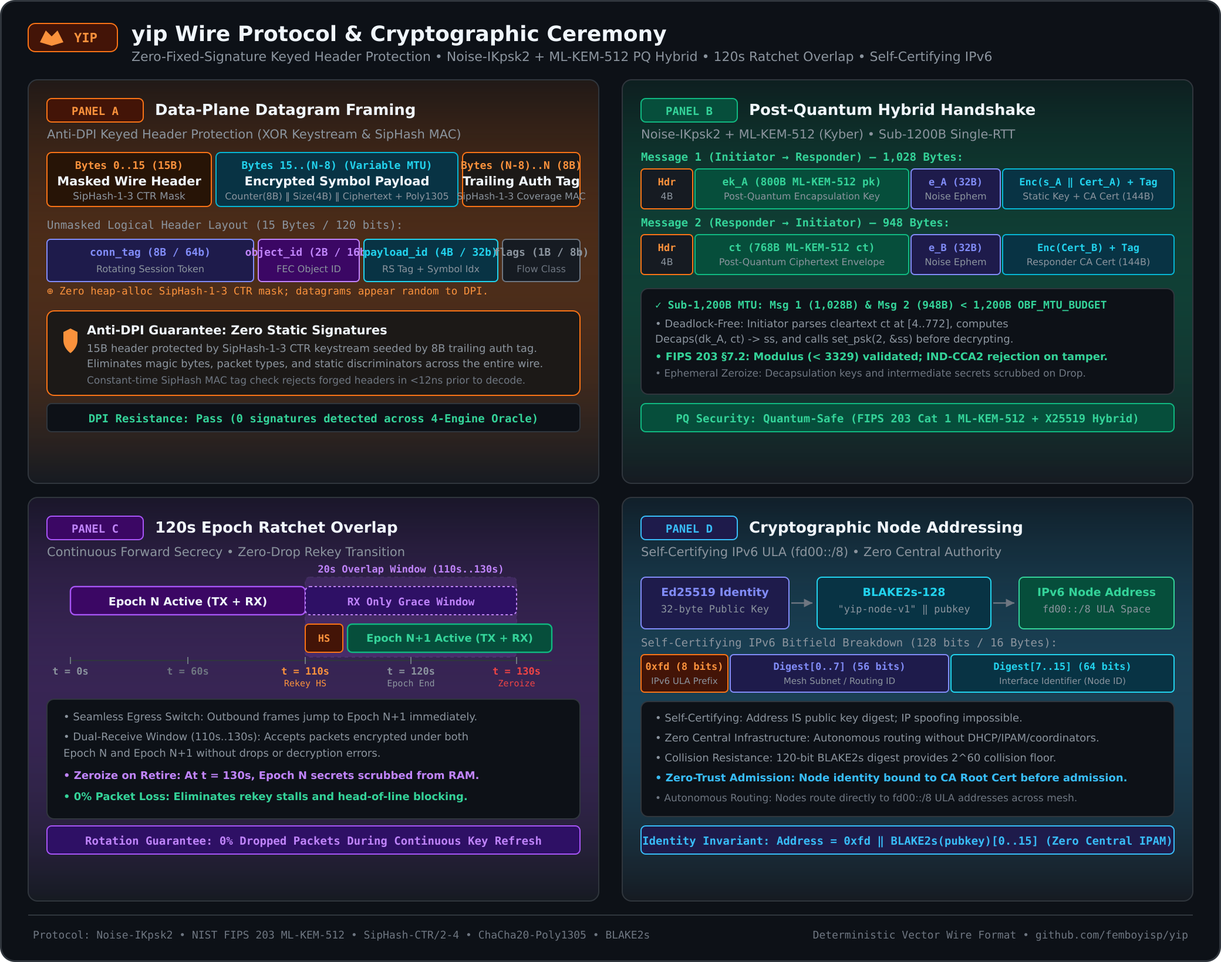
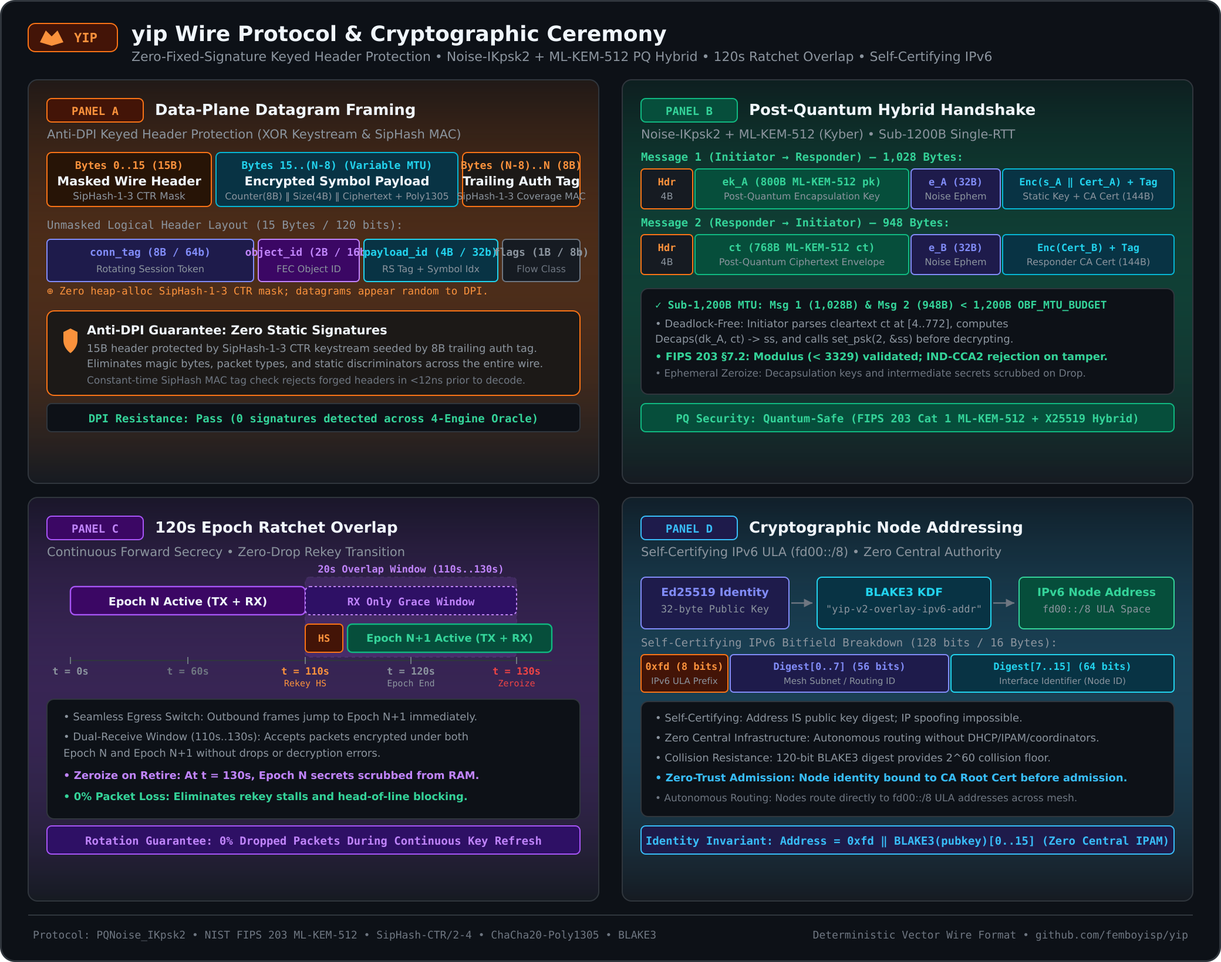
refactor(mesh): complete workspace cutover to native PQNoise and BLAKE3

diff --git a/crates/yip-bench/generate-wire-format.py b/crates/yip-bench/generate-wire-format.py
@@ -10,7 +10,7 @@ Visualizes four key architectural pillars of yip:
   1. Panel A: Data-Plane Datagram Framing (Anti-DPI Keyed Header Protection & SipHash-1-3 MAC)
   2. Panel B: Post-Quantum Hybrid Handshake Framing (Noise-IKpsk2 + ML-KEM-512 Kyber)
   3. Panel C: 120-Second Epoch Ratchet Overlap (Zero-Loss Rekey Rotation)
-  4. Panel D: Cryptographic Self-Certifying Node Addressing (fd00::/8 ULA via BLAKE2s)
+  4. Panel D: Cryptographic Self-Certifying Node Addressing (fd00::/8 ULA via BLAKE3)
 
 Standard library only. Strict determinism (fixed formatting, fixed float precision, no timestamps).
 """
@@ -464,10 +464,10 @@ def generate_wire_format_svg() -> str:
     # Arrow 1
     canvas.line(674.0, flow_y + 22.0, 692.0, flow_y + 22.0, stroke=COLOR_TEXT_DIM, stroke_width=1.2, marker_end="url(#arrow-dim)")
 
-    # Box 2: BLAKE2s Hash
+    # Box 2: BLAKE3 Key Derivation
     canvas.rect(696.0, flow_y, 148.0, 44.0, rx=4.0, fill=COLOR_DATA_BG, stroke=COLOR_DATA_LIGHT, stroke_width=1.0)
-    canvas.text(770.0, flow_y + 16.0, "BLAKE2s-128", fill=COLOR_DATA_LIGHT, font_size=9.5, font_weight="700", text_anchor="middle")
-    canvas.text(770.0, flow_y + 30.0, '"yip-node-v1" ‖ pubkey', fill=COLOR_TEXT_MUTED, font_size=8.5, font_family=FONT_MONO, text_anchor="middle")
+    canvas.text(770.0, flow_y + 16.0, "BLAKE3 KDF", fill=COLOR_DATA_LIGHT, font_size=9.5, font_weight="700", text_anchor="middle")
+    canvas.text(770.0, flow_y + 30.0, '"yip-v2-overlay-ipv6-addr"', fill=COLOR_TEXT_MUTED, font_size=8.5, font_family=FONT_MONO, text_anchor="middle")
 
     # Arrow 2
     canvas.line(846.0, flow_y + 22.0, 864.0, flow_y + 22.0, stroke=COLOR_TEXT_DIM, stroke_width=1.2, marker_end="url(#arrow-dim)")
@@ -498,14 +498,14 @@ def generate_wire_format_svg() -> str:
     canvas.rect(546.0, addr_info_y, 454.0, 98.0, rx=6.0, fill=COLOR_SUB_CARD_BG, stroke=COLOR_CANVAS_BORDER, stroke_width=1.0)
     canvas.text(558.0, addr_info_y + 17.0, "• Self-Certifying: Address IS public key digest; IP spoofing impossible.", fill=COLOR_TEXT_MUTED, font_size=9.0)
     canvas.text(558.0, addr_info_y + 34.0, "• Zero Central Infrastructure: Autonomous routing without DHCP/IPAM/coordinators.", fill=COLOR_TEXT_MUTED, font_size=9.0)
-    canvas.text(558.0, addr_info_y + 51.0, "• Collision Resistance: 120-bit BLAKE2s digest provides 2^60 collision floor.", fill=COLOR_TEXT_MUTED, font_size=9.0)
+    canvas.text(558.0, addr_info_y + 51.0, "• Collision Resistance: 120-bit BLAKE3 digest provides 2^60 collision floor.", fill=COLOR_TEXT_MUTED, font_size=9.0)
     canvas.text(558.0, addr_info_y + 68.0, "• Zero-Trust Admission: Node identity bound to CA Root Cert before admission.", fill=COLOR_NOISE, font_size=9.0, font_weight="700")
     canvas.text(558.0, addr_info_y + 85.0, "• Autonomous Routing: Nodes route directly to fd00::/8 ULA addresses across mesh.", fill=COLOR_TEXT_DIM, font_size=8.5)
 
     # Outcome banner
     ob4_y = 704.0
     canvas.rect(546.0, ob4_y, 454.0, 24.0, rx=4.0, fill=COLOR_NOISE_BG, stroke=COLOR_NOISE, stroke_width=1.0)
-    canvas.text(773.0, ob4_y + 16.0, "Identity Invariant: Address = 0xfd ‖ BLAKE2s(pubkey)[0..15] (Zero Central IPAM)", fill=COLOR_NOISE, font_size=9.5, font_family=FONT_MONO, font_weight="700", text_anchor="middle")
+    canvas.text(773.0, ob4_y + 16.0, "Identity Invariant: Address = 0xfd ‖ BLAKE3(pubkey)[0..15] (Zero Central IPAM)", fill=COLOR_NOISE, font_size=9.5, font_family=FONT_MONO, font_weight="700", text_anchor="middle")
 
     # =========================================================================
     # FOOTER SECTION
@@ -513,7 +513,7 @@ def generate_wire_format_svg() -> str:
     canvas.line(24.0, 780.0, w - 24.0, 780.0, stroke=COLOR_CANVAS_BORDER, stroke_width=1.0)
     canvas.text(
         28.0, 800.0,
-        "Protocol: Noise-IKpsk2 • NIST FIPS 203 ML-KEM-512 • SipHash-CTR/2-4 • ChaCha20-Poly1305 • BLAKE2s",
+        "Protocol: PQNoise_IKpsk2 • NIST FIPS 203 ML-KEM-512 • SipHash-CTR/2-4 • ChaCha20-Poly1305 • BLAKE3",
         fill=COLOR_TEXT_DIM, font_size=9.0, font_family=FONT_MONO
     )
     canvas.text(

diff --git a/crates/yip-bench/generate-architecture.py b/crates/yip-bench/generate-architecture.py
@@ -7,7 +7,7 @@ Generates:
   assets/architecture.svg
 
 Visualizes yip's dual-path pipeline:
-  1. Top: Control Plane (#6366f1) - BLAKE2s, CA-Gated Mesh (yip-ca), NAT Hole-Punching & Relay (yip-rendezvous)
+  1. Top: Control Plane (#6366f1) - BLAKE3, CA-Gated Mesh (yip-ca), NAT Hole-Punching & Relay (yip-rendezvous)
   2. Middle: Data Plane Pipeline (#06b6d4) - TUN/TAP (64KB GSO/GRO), SPSC Shards, ChaCha20-Poly1305, Systematic Cauchy RS-FEC (#f97316)
   3. Bottom Dual-Path:
      - Fast Path (#10b981): eBPF AF_XDP Zero-Copy (XSKMAP) + Vectorized epoll sendmmsg -> 40+ Gbps
@@ -167,7 +167,7 @@ def build_architecture_svg() -> str:
     lines.append(f'    <rect x="{m1_x:.2f}" y="{card_y:.2f}" width="{card_w:.2f}" height="{card_h:.2f}" rx="6.00" fill="{COLOR_SUB_CARD_BG}" stroke="{COLOR_CANVAS_BORDER}" stroke-width="1.00" />')
     lines.append(f'    <text x="{m1_x + 12:.2f}" y="{card_y + 17:.2f}" font-family="{FONT_SANS}" font-size="12" font-weight="700" fill="{COLOR_TEXT_WHITE}">PQ Hybrid Handshake &amp; KDF</text>')
     lines.append(f'    <text x="{m1_x + 12:.2f}" y="{card_y + 33:.2f}" font-family="{FONT_SANS}" font-size="10.5" fill="{COLOR_TEXT_MUTED}">• ML-KEM-512 (FIPS 203) + X25519</text>')
-    lines.append(f'    <text x="{m1_x + 12:.2f}" y="{card_y + 49:.2f}" font-family="{FONT_SANS}" font-size="10.5" fill="{COLOR_TEXT_MUTED}">• Noise-IKpsk2 Token Sequencing</text>')
+    lines.append(f'    <text x="{m1_x + 12:.2f}" y="{card_y + 49:.2f}" font-family="{FONT_SANS}" font-size="10.5" fill="{COLOR_TEXT_MUTED}">• PQNoise-IKpsk2 Token Sequencing</text>')
     lines.append(f'    <text x="{m1_x + 12:.2f}" y="{card_y + 65:.2f}" font-family="{FONT_SANS}" font-size="10.5" fill="{COLOR_CONTROL_LIGHT}">• Ephemeral Rekeying (120s Ratchet)</text>')
 
     # Module 2: Decentralized Threshold CA (yip-ca)
@@ -190,7 +190,7 @@ def build_architecture_svg() -> str:
     # Connectors: Control Plane -> Data Plane
     lines.append('  <!-- Connectors: Control to Data Plane -->')
     lines.append('  <g id="connectors-control-to-data">')
-    # Connector 1: Keys/Tokens from BLAKE2s to AEAD
+    # Connector 1: Keys/Tokens from PQNoise/BLAKE3 to AEAD
     lines.append(f'    <path d="M 192.00 182.00 L 192.00 206.00 L 644.00 206.00 L 644.00 232.00" fill="none" stroke="{COLOR_CONTROL}" stroke-width="1.40" stroke-dasharray="3,3" marker-end="url(#arrow-ctrl)" />')
     lines.append(f'    <rect x="250.00" y="198.00" width="168.00" height="16.00" rx="3.00" fill="{COLOR_CANVAS_BG}" stroke="{COLOR_CONTROL}" stroke-width="0.80" />')
     lines.append(f'    <text x="334.00" y="210.00" font-family="{FONT_MONO}" font-size="9" font-weight="600" fill="{COLOR_CONTROL_LIGHT}" text-anchor="middle">Hybrid Keys &amp; Ratchet State</text>')

diff --git a/crates/yip-bench/tests/test_wire_format.py b/crates/yip-bench/tests/test_wire_format.py
@@ -121,8 +121,8 @@ class TestWireFormatGenerator(unittest.TestCase):
         self.assertIn("Cryptographic Node Addressing", svg_str)
         self.assertIn("fd00::/8", svg_str)
         self.assertIn("Ed25519 Identity", svg_str)
-        self.assertIn("BLAKE2s-128", svg_str)
-        self.assertIn("&quot;yip-node-v1&quot;", svg_str)
+        self.assertIn("BLAKE3 KDF", svg_str)
+        self.assertIn("&quot;yip-v2-overlay-ipv6-addr&quot;", svg_str)
         self.assertIn("0xfd (8 bits)", svg_str)
         self.assertIn("Digest[0..7] (56 bits)", svg_str)
         self.assertIn("Digest[7..15] (64 bits)", svg_str)

diff --git a/crates/yip-mesh/src/lib.rs b/crates/yip-mesh/src/lib.rs
@@ -10,7 +10,7 @@
 //! ## Feature Flags
 //!
 //! By default, the following core features are enabled:
-//! - `crypto`: Noise-IK cryptography, AEAD ciphers, BLAKE2s hashing.
+//! - `crypto`: Post-quantum hybrid Noise cryptography, AEAD ciphers, and BLAKE3 ratchets.
 //! - `wire`: Packet framing, wire codec, and header obfuscation.
 //! - `transport`: Slotted Reed-Solomon FEC, sliding-window reassembly, and adaptive ARQ.
 //! - `membership`: Cryptographic node identity, self-certifying IPv6 addressing, RootSet verification, and gossip.

diff --git a/bin/yipd/src/sharding.rs b/bin/yipd/src/sharding.rs
@@ -14,7 +14,7 @@ use std::net::Ipv6Addr;
 /// Map an IPv6 address to a shard index deterministically in `0..num_shards`.
 ///
 /// For mesh addresses in `fd00::/8` (where octet 0 is `0xfd`), octets `[1..9]`
-/// (the first 8 bytes of the BLAKE2s identity digest) are converted to a 64-bit integer
+/// (the first 8 bytes of the BLAKE3 identity digest) are converted to a 64-bit integer
 /// and modulo-divided by `num_shards`.
 ///
 /// For non-mesh IPv6 addresses (e.g., link-local, loopback, or global unicast),

diff --git a/bin/yipd/src/control.rs b/bin/yipd/src/control.rs
@@ -3742,7 +3742,7 @@ mod tests {
             node_addr: "200:1::1".into(),
             endpoint: Some("127.0.0.1:51820".into()),
             session_state: "Established".into(),
-            cipher_suite: "Noise_IKpsk2_25519_ChaChaPoly_BLAKE2s".into(),
+            cipher_suite: "PQNoise_IKpsk2_25519_MLKEM512_ChaChaPoly_BLAKE3".into(),
             current_epoch: Some(1),
             current_epoch_age_secs: Some(10),
             next_epoch: None,

diff --git a/bin/yipd/src/peer_manager/mod.rs b/bin/yipd/src/peer_manager/mod.rs
@@ -1066,7 +1066,7 @@ impl PeerManager {
             node_addr: p.addr.to_string(),
             endpoint: p.endpoint.map(|ep| ep.to_string()),
             session_state,
-            cipher_suite: "Noise_IKpsk2_25519_ChaChaPoly_BLAKE2s + ML-KEM-512".to_string(),
+            cipher_suite: "PQNoise_IKpsk2_25519_MLKEM512_ChaChaPoly_BLAKE3".to_string(),
             current_epoch,
             current_epoch_age_secs,
             next_epoch,

diff --git a/docs/03-architecture.md b/docs/03-architecture.md
@@ -17,7 +17,7 @@ For automated benchmarks, performance analysis, and tuning, see [testing-and-ben
   - [Repository Crate Topology](#repository-crate-topology)
 - [2. Out-of-Band Cryptographic Control Plane](#2-out-of-band-cryptographic-control-plane)
   - [Node Identity Foundation](#node-identity-foundation)
-  - [Noise-IKpsk2 Handshake with Hybrid ML-KEM-512](#noise-ikpsk2-handshake-with-hybrid-ml-kem-512)
+  - [PQNoise-IKpsk2 Handshake with Hybrid ML-KEM-512](#pqnoise-ikpsk2-handshake-with-hybrid-ml-kem-512)
   - [Handshake Wire Message Breakdown](#handshake-wire-message-breakdown)
   - [120-Second Epoch Ratchet & Rekey Overlap Window](#120-second-epoch-ratchet--rekey-overlap-window)
   - [Topology Orchestration & Blind Relay Signaling](#topology-orchestration--blind-relay-signaling)
@@ -87,7 +87,7 @@ For automated benchmarks, performance analysis, and tuning, see [testing-and-ben
 |                           CONTROL PLANE (Out-of-Band)                            |
 |                                                                                   |
 |  - Ed25519 Node Identity & Root CA Tokens        - Out-of-Band STUN / Relay Coord |
-|  - Noise-IKpsk2 + ML-KEM-512 PQ Handshakes       - Dynamic Peer Lifecycle Events  |
+|  - PQNoise-IKpsk2 + ML-KEM-512 Handshakes        - Dynamic Peer Lifecycle Events  |
 |  - 120s Ephemeral Rekey Ratchet Scheduling       - Asynchronous State Replication |
 +-----------------------------------------------------------------------------------+
                                   |
@@ -118,7 +118,7 @@ The `yip` codebase is organized into modular Rust crates with strict interface b
 | Crate | Responsibility | Unsafe Code |
 | :--- | :--- | :--- |
 | [`crates/yip-mesh`](../crates/yip-mesh) | Primary unified SDK facade crate exposing modular feature flags (`crypto`, `wire`, `transport`, `membership`, `device`, `io`, etc.). | `#![forbid(unsafe_code)]` |
-| [`crates/yip-crypto`](../crates/yip-crypto) | Noise-IKpsk2 state machine, ML-KEM-512 post-quantum KDF, ChaCha20-Poly1305 AEAD, sliding replay window. | `#![forbid(unsafe_code)]` |
+| [`crates/yip-crypto`](../crates/yip-crypto) | Native zero-alloc PQNoise-IKpsk2 state machine, ML-KEM-512 post-quantum KDF, BLAKE3 ratchets, ChaCha20-Poly1305 AEAD, sliding replay window. | `#![forbid(unsafe_code)]` |
 | [`crates/yip-wire`](../crates/yip-wire) | Frame serialization, SipHash-1-3 coverage authentication, keyed header obfuscation. | `#![forbid(unsafe_code)]` |
 | [`crates/yip-transport`](../crates/yip-transport) | Flow classification, GF(256) Cauchy Reed-Solomon FEC, RLNC codec, thin ARQ, PLPMTU discovery. | `#![forbid(unsafe_code)]` |
 | [`crates/yip-membership`](../crates/yip-membership) | Cryptographic identity certificates, RootSets, epidemic anti-entropy gossip, and TAI64N replay freshness. | `#![forbid(unsafe_code)]` |
@@ -144,9 +144,9 @@ Every node participating in a `yip` mesh network possesses an immutable identity
 
 Nodes prove authorization via signed certificates issued by a private root CA (`yip-ca`). Certificates bind node identity keys, mesh roles, and validity epochs without requiring centralized phone-home databases.
 
-### Noise-IKpsk2 Handshake with Hybrid ML-KEM-512
+### PQNoise-IKpsk2 Handshake with Hybrid ML-KEM-512
 
-`yip` implements a post-quantum hybrid cryptographic handshake. It builds on the Noise Protocol Framework pattern **Noise-IKpsk2** (Initiator knows Responder static key beforehand, one round-trip mutual authentication, with pre-shared key slot 2) augmented with NIST FIPS 203 **ML-KEM-512** (Kyber-512):
+`yip` implements a post-quantum hybrid cryptographic handshake (`PQNoise_IKpsk2_25519_MLKEM512_ChaChaPoly_BLAKE3`). It builds on the Noise Protocol Framework pattern **Noise-IKpsk2** (Initiator knows Responder static key beforehand, one round-trip mutual authentication, with pre-shared key slot 2) augmented with NIST FIPS 203 **ML-KEM-512** (Kyber-512) and native BLAKE3 keyed XOF ratchets:
 
 ```
 Initiator (Host A)                                      Responder (Host B)
@@ -261,9 +261,9 @@ All overlay addresses reside within the RFC 4193 Unique Local Address (ULA) pref
 
 ### Derivation Algorithm & Byte-Level Layout
 
-The derivation algorithm is implemented in [`bin/yipd/src/addr.rs`](../bin/yipd/src/addr.rs). It feeds the node's 32-byte public key into a variable-length BLAKE2s digest using a domain-separation context:
+The derivation algorithm is implemented in [`bin/yipd/src/addr.rs`](../bin/yipd/src/addr.rs). It feeds the node's 32-byte public key into a BLAKE3 key derivation function using a domain-separation context:
 
-$$\text{Digest}_{120} = \text{BLAKE2s-120}(\text{Domain} = \texttt{"yip-addr-v1"}, \text{Key} = \text{PublicKey})$$
+$$\text{Digest}_{120} = \text{BLAKE3-KDF}(\text{Context} = \texttt{"yip-v2-overlay-ipv6-addr"}, \text{Key} = \text{PublicKey})[0..15]$$
 
 $$\text{IPv6 Address} = \texttt{0xfd} \mathbin{\Vert} \text{Digest}_{120}$$
 
@@ -271,10 +271,10 @@ $$\text{IPv6 Address} = \texttt{0xfd} \mathbin{\Vert} \text{Digest}_{120}$$
  0                   1                   2                   3
  0 1 2 3 4 5 6 7 8 9 0 1 2 3 4 5 6 7 8 9 0 1 2 3 4 5 6 7 8 9 0 1
 +-+-+-+-+-+-+-+-+-+-+-+-+-+-+-+-+-+-+-+-+-+-+-+-+-+-+-+-+-+-+-+-+
-|  0xfd (8 bits)|            BLAKE2s Digest [0..7]              |
+|  0xfd (8 bits)|            BLAKE3 Digest [0..7]               |
 |  (ULA Prefix) |                   (56 bits)                   |
 +-+-+-+-+-+-+-+-+-+-+-+-+-+-+-+-+-+-+-+-+-+-+-+-+-+-+-+-+-+-+-+-+
-|                     BLAKE2s Digest [7..15]                    |
+|                     BLAKE3 Digest [7..15]                     |
 |                            (64 bits)                          |
 |                     (Interface Identifier)                    |
 +-+-+-+-+-+-+-+-+-+-+-+-+-+-+-+-+-+-+-+-+-+-+-+-+-+-+-+-+-+-+-+-+
@@ -285,20 +285,16 @@ $$\text{IPv6 Address} = \texttt{0xfd} \mathbin{\Vert} \text{Digest}_{120}$$
 | Byte Range | Size | Field Name | Description |
 | :--- | :--- | :--- | :--- |
 | `0..1` | 8 bits | ULA Prefix | Constant byte `0xfd`, anchoring the address in IPv6 RFC 4193 ULA space. |
-| `1..8` | 56 bits | Mesh Subnet / Shard Routing ID | First 7 bytes of the BLAKE2s digest. Used for fast packet sharding and mesh routing. |
-| `8..16` | 64 bits | Interface Identifier (IID) | Final 8 bytes of the BLAKE2s digest, representing the node's unique host token. |
+| `1..8` | 56 bits | Mesh Subnet / Shard Routing ID | First 7 bytes of the BLAKE3 digest. Used for fast packet sharding and mesh routing. |
+| `8..16` | 64 bits | Interface Identifier (IID) | Final 8 bytes of the BLAKE3 digest, representing the node's unique host token. |
 
 ```rust
 // Verified against bin/yipd/src/addr.rs
 pub fn node_addr(pubkey: &[u8; 32]) -> Ipv6Addr {
-    let mut h = Blake2sVar::new(15).expect("15 is a valid blake2s output len");
-    h.update(b"yip-addr-v1");
-    h.update(pubkey);
-    let mut digest = [0u8; 15];
-    h.finalize_variable(&mut digest).expect("output len matches");
+    let digest = blake3::derive_key("yip-v2-overlay-ipv6-addr", pubkey);
     let mut octets = [0u8; 16];
     octets[0] = 0xfd;
-    octets[1..].copy_from_slice(&digest);
+    octets[1..16].copy_from_slice(&digest[0..15]);
     Ipv6Addr::from(octets)
 }
 ```
@@ -310,14 +306,14 @@ Self-certifying addresses eliminate entire classes of overlay network attacks:
 1. **Impossibility of IP Spoofing**: When a worker thread receives an inner decrypted IPv6 packet with source IP $S$, it verifies that:
    $$S = \text{node\_addr}(\text{SessionPublicKey})$$
    Because $\text{SessionPublicKey}$ is authenticated by the Noise handshake, an attacker cannot emit packets purporting to originate from another node's IP address. Forged source addresses fail self-certification checks and are dropped immediately at line rate.
-2. **Impossibility of Address Squatting**: An adversary cannot register or preempt another peer's address without finding a preimage for BLAKE2s.
+2. **Impossibility of Address Squatting**: An adversary cannot register or preempt another peer's address without finding a preimage for BLAKE3.
 3. **Collision Resistance**: With 120 bits of cryptographic output entropy, the birthday bound requires generating approximately $2^{60}$ distinct keypairs before encountering a single collision across the entire global mesh.
 
 ### Consistent Shard Affinity via Identity Hash
 
 In multi-threaded deployments, incoming TUN packets must be directed to the worker core owning the peer's session without inter-thread locks.
 
-Because octets `[1..9]` of the IPv6 address represent the first 8 bytes of the BLAKE2s digest, hashing these octets directly yields the identical shard index as hashing the peer's public key (see [`bin/yipd/src/sharding.rs`](../bin/yipd/src/sharding.rs)):
+Because octets `[1..9]` of the IPv6 address represent the first 8 bytes of the BLAKE3 digest, hashing these octets directly yields the identical shard index as hashing the peer's public key (see [`bin/yipd/src/sharding.rs`](../bin/yipd/src/sharding.rs)):
 
 ```rust
 pub fn shard_for_addr(addr: Ipv6Addr, num_shards: usize) -> usize {

diff --git a/docs/04-security-and-threat-model.md b/docs/04-security-and-threat-model.md
@@ -66,7 +66,7 @@ The table below summarizes the core cryptographic primitives employed across `yi
 | **Session Ratchet** | Epoch Rekeying (120s) | In-band ephemeral rekey | 20s dual-receive grace window | Bounded key lifetime, forward secrecy against late compromise |
 | **Header Protection** | SipHash-CTR Keystream | [SipHash](https://131002.net/siphash/) CTR mode | Key: 16 B, Header Mask: 15 B | Wire signature elimination, uniform randomness |
 | **Pre-Filter MAC** | SipHash-1-3 Tag | SipHash-1-3 streaming MAC | Key: 16 B, Tag: 8 B (64-bit) | 16.76 ns unauthorized probe drop before AEAD |
-| **Obfuscation Envelope** | `yip-obf` Masking | SipHash-2-4 CTR + Blake2s | Nonce: 8 B, Key: 16 B | Anti-DPI entropy normalization, packet-length hiding |
+| **Obfuscation Envelope** | `yip-obf` Masking | SipHash-2-4 CTR + BLAKE3 | Nonce: 8 B, Key: 16 B | Anti-DPI entropy normalization, packet-length hiding |
 | **uTLS Emulation** | Chrome 150 Profile | [RFC 8701](https://www.rfc-editor.org/rfc/rfc8701) (GREASE), TLS 1.3 | JA3 / JA4 exact parity | Indistinguishable from legitimate Google Chrome traffic |
 | **TLS Trojan / Relay** | Xray-REALITY Splicing | TLS 1.3 Certificate Borrowing | X25519: 32 B, Poly1305 Tag: 16 B | Active probe redirection via transparent TCP splicing |
 | **Node Identity & CA** | Ed25519 Signatures | [RFC 8032](https://www.rfc-editor.org/rfc/rfc8032) | Public Key: 32 B, Sig: 64 B | Offline CA-signed member authorization and gossip identity |
@@ -87,7 +87,7 @@ The architecture enforces five fundamental security invariants across all implem
 
 ### Protocol Composition: Noise-IKpsk2 + ML-KEM-512
 
-The control plane implements a post-quantum hybrid cryptographic handshake implemented in [`crates/yip-crypto/src/lib.rs`](../crates/yip-crypto/src/lib.rs). It integrates the standard **Noise-IKpsk2** pattern (`Noise_IKpsk2_25519_ChaChaPoly_BLAKE2s`) with NIST FIPS 203 **ML-KEM-512** (Kyber-512):
+The control plane implements a post-quantum hybrid cryptographic handshake implemented in [`crates/yip-crypto/src/lib.rs`](../crates/yip-crypto/src/lib.rs). It integrates the bespoke post-quantum extended **PQNoise-IKpsk2** protocol (`PQNoise_IKpsk2_25519_MLKEM512_ChaChaPoly_BLAKE3`) with NIST FIPS 203 **ML-KEM-512** (Kyber-512) and native BLAKE3 keyed XOF ratchets:
 
 - **IK (Initiator knows Responder static key beforehand)**: The initiator possesses the responder's static public key prior to initiating the handshake (configured via certificate or rendezvous record). The initiator encrypts its own static identity key in the first flight, preserving initiator identity confidentiality against passive eavesdroppers.
 - **psk2 (Pre-Shared Key slot 2)**: Noise provides designated points in its token sequences where external entropy can be injected into the running symmetric chaining key ($ck$) and handshake hash ($h$). `yip` utilizes PSK slot 2 to inject the 32-byte post-quantum shared secret ($ss_{pq}$) derived from ML-KEM-512.
@@ -138,9 +138,9 @@ Both peers derive identical session transport keys (k_send, k_recv)
 |   - Ciphertext (ct):             768 bytes                                    |
 |   - Shared Secret (ss_pq):       32 bytes                                     |
 +-------------------------------------------------------------------------------+
-| Symmetric Cipher & Hash:         ChaCha20-Poly1305 AEAD + BLAKE2s Hash        |
+| Symmetric Cipher & Hash:         ChaCha20-Poly1305 AEAD + BLAKE3 Hash         |
 |   - Handshake Cipher:            ChaCha20-Poly1305 (RFC 8439)                 |
-|   - Transcript Hash:             BLAKE2s-256 (32 bytes)                       |
+|   - Transcript Hash:             BLAKE3 (32 bytes)                            |
 |   - AEAD Tag Size:               16 bytes                                     |
 +-------------------------------------------------------------------------------+
 ```
@@ -220,7 +220,7 @@ Every received ML-KEM-512 encapsulation key ($ek_A$) undergoes strict cryptograp
 State-level intelligence agencies and adversaries routinely record petabytes of encrypted transit traffic on transatlantic cables and IXPs under the "Harvest-Now, Decrypt-Later" (HNDL) doctrine. When a Cryptographically Relevant Quantum Computer (CRQC) running Shor's algorithm becomes operational, recorded classical sessions using standard Diffie-Hellman (Curve25519 or NIST P-256) or RSA will be decrypted retrospectively.
 
 `yip` neutralizes HNDL attacks through its dual-entropy hybrid design:
-- The session key derivation binds both the classical Diffie-Hellman shared secret ($ss_{dh} = \text{X25519}(e_A, e_B)$) and the quantum-resistant lattice shared secret ($ss_{pq} = \text{ML-KEM-512}(ek_A, ct)$) into the Noise HKDF-BLAKE2s ratchet.
+- The session key derivation binds both the classical Diffie-Hellman shared secret ($ss_{dh} = \text{X25519}(e_A, e_B)$) and the quantum-resistant lattice shared secret ($ss_{pq} = \text{ML-KEM-512}(ek_A, ct)$) into the native PQNoise BLAKE3 keyed XOF ratchet.
 - Even if a quantum adversary retrospectively solves the discrete logarithm problem on Curve25519, the session keys remain protected by the Module Learning With Errors (M-LWE) lattice problem of ML-KEM-512.
 - Conversely, if a future mathematical advance identifies unexpected structure in ML-KEM lattices, the 128-bit classical security margin of Curve25519 remains fully intact.
 
@@ -615,7 +615,7 @@ The table below provides a quick reference to all cryptographic algorithms, key 
 | **PQ KEM** | NIST FIPS 203 ML-KEM-512 | `ek`: 800 B, `dk`: 1,632 B, `ct`: 768 B, `ss`: 32 B | [`crates/yip-crypto/src/lib.rs`](../crates/yip-crypto/src/lib.rs#L46-L118) | Quantum-safe key encapsulation |
 | **Modulus Check** | FIPS 203 §7.2 ByteDecode_12 | Modulus $q = 3329$ | [`crates/yip-crypto/src/lib.rs`](../crates/yip-crypto/src/lib.rs#L85-L96) | Input validation, attack prevention |
 | **Classical DH** | X25519 (RFC 7748) | 32 B Public, 32 B Private | [`crates/yip-crypto/src/lib.rs`](../crates/yip-crypto/src/lib.rs#L25-L44) | Classical 128-bit Diffie-Hellman |
-| **Noise Pattern** | `Noise_IKpsk2_25519_ChaChaPoly_BLAKE2s` | Transcript: 32 B | [`crates/yip-crypto/src/lib.rs`](../crates/yip-crypto/src/lib.rs#L22-L24) | 1-RTT mutual authentication & KDF |
+| **Noise Pattern** | `PQNoise_IKpsk2_25519_MLKEM512_ChaChaPoly_BLAKE3` | Transcript: 32 B | [`crates/yip-crypto/src/handshake.rs`](../crates/yip-crypto/src/handshake.rs) | 1-RTT mutual authentication & KDF |
 | **Data AEAD** | ChaCha20-Poly1305 (RFC 8439) | Key: 32 B, Nonce: 12 B, Tag: 16 B | [`crates/yip-crypto/src/lib.rs`](../crates/yip-crypto/src/lib.rs#L550-L649) | Inner payload confidentiality & integrity |
 | **Replay Window** | Monotonic Circular Bit Ring | 131,072 bits (16 KB) / 8,192 bits (1 KB) | [`crates/yip-crypto/src/lib.rs`](../crates/yip-crypto/src/lib.rs#L120-L297) | Anti-replay with zero false positives |
 | **Wire Codec** | SipHash-CTR Keystream | Key: 16 B, Header: 15 B | [`crates/yip-wire/src/lib.rs`](../crates/yip-wire/src/lib.rs#L61-L90) | Keyed header protection, zero magic bytes |
@@ -626,4 +626,4 @@ The table below provides a quick reference to all cryptographic algorithms, key 
 | **REALITY Front** | TLS 1.3 Certificate Borrowing | Auth Seal: 32 B in `legacy_session_id` | [`bin/yip-rendezvous/src/reality.rs`](../bin/yip-rendezvous/src/reality.rs) | Active probe redirection via TCP splicing |
 | **CA Signatures** | Ed25519 (RFC 8032) | Public: 32 B, Signature: 64 B | [`crates/yip-membership/src/cert.rs`](../crates/yip-membership/src/cert.rs#L1-L50) | Node authorization without online PKI |
 | **Threshold CA** | RFC 9591 FROST(Ed25519, SHA-512) | Group PK: 32 B, Share: 32 B, Sig: 64 B | [`bin/yip-ca/src/threshold/mod.rs`](../bin/yip-ca/src/threshold/mod.rs) | *t*-of-*n* decentralized issuance & ROAST quorum |
-| **Self-Cert IPv6** | BLAKE2s Variable Digest (`fd00::/8`) | 128-bit IPv6 Address | [`bin/yipd/src/addr.rs`](../bin/yipd/src/addr.rs) | Cryptographic anti-spoofing overlay IP |
+| **Self-Cert IPv6** | BLAKE3 Key Derivation (`fd00::/8`) | 128-bit IPv6 Address | [`bin/yipd/src/addr.rs`](../bin/yipd/src/addr.rs) | Cryptographic anti-spoofing overlay IP |

diff --git a/README.md b/README.md
@@ -234,10 +234,10 @@ flowchart TD
 - **Flat Open-Addressing Tables**: Replaces dynamic pointer maps with bounded flat slot tables using SplitMix64 fast hashing and backward-shift deletion with zero tombstones.
 
 ### 4. Post-Quantum Cryptography & Identity
-- **Single-RTT Hybrid Handshake**: Blends Noise_IKpsk2 (Curve25519) with NIST FIPS 203 ML-KEM-512 (Kyber) within compact datagrams strictly under the 1200-byte internet MTU floor.
+- **Single-RTT Hybrid Handshake**: Blends native zero-allocation PQNoise_IKpsk2 (Curve25519) with NIST FIPS 203 ML-KEM-512 (Kyber) within compact datagrams strictly under the 1200-byte internet MTU floor.
 - **120-Second Epoch Ratcheting**: Automated forward-secrecy key rotation with a 20-second dual-receive grace window prevents dropped packets during rekey transitions.
 - **Rigorous Memory Hygiene**: Cryptographic secrets implement explicit `Zeroize` traits to purge private key material from memory buffers immediately upon drop.
-- **Self-Certifying IPv6 Addressing**: Cryptographic BLAKE2s-120 hashing derives immutable, anti-spoofing overlay addresses in the `fd00::/8` ULA space directly from node public keys.
+- **Self-Certifying IPv6 Addressing**: Cryptographic BLAKE3 key derivation derives immutable, anti-spoofing overlay addresses in the `fd00::/8` ULA space directly from node public keys.
 
 ### 5. 4-Mode Anti-DPI Armor
 - **`raw-obf`**: SipHash-CTR keystream masking with a 64-bit SipHash-1-3 coverage authentication tag strips all fixed wire headers, leaving uniform high-entropy payload noise.
@@ -317,7 +317,7 @@ Full methodology and reproducible test harnesses are documented in [`crates/yip-
 ├───────────────────────────────────────┼───────────────────────────────────────┤
 │ ✔ Replay & Identity Spoofing          │ ✘ Subverted Host Kernels              │
 │   TAI64N monotonic freshness and      │   The daemon relies on Linux memory   │
-│   BLAKE2s cryptographic addressing    │   isolation and privileged namespaces │
+│   BLAKE3 cryptographic addressing     │   isolation and privileged namespaces │
 └───────────────────────────────────────┴───────────────────────────────────────┘
 ```
 
@@ -355,7 +355,7 @@ yip-mesh = { version = "0.1", features = ["full"] }
 
 ### Modular Feature Flags
 
-- **`crypto`** (default): AEAD ciphers (ChaCha20-Poly1305, AES-256-GCM, AES-128-GCM), Noise-IK handshakes, BLAKE2s hashing, and key derivations.
+- **`crypto`** (default): AEAD ciphers (ChaCha20-Poly1305), native zero-alloc PQNoise handshakes, BLAKE3 keyed ratchets, and key derivations.
 - **`wire`** (default): Zero-allocation framing, wire codec parsing, header obfuscation, and control frame encoding.
 - **`transport`** (default): Slotted Reed-Solomon Forward Error Correction (FEC), sliding window packet reassembly, and selective ARQ.
 - **`membership`** (default): Cryptographic node identity, self-certifying IPv6 mesh addresses, certificate verification, root sets, and anti-entropy gossip.

diff --git a/docs/01-getting-started.md b/docs/01-getting-started.md
@@ -360,18 +360,18 @@ public=9b49ffeb4566b53a0f78cae08920bc9e30a6e0c60f252cfdf4740e74f8c92b21
 
 ### Step 2: Derive Mesh IPv6 Addresses
 
-`yip` features self-certifying IPv6 addresses: a node's overlay address is derived directly from its public key (`0xfd || BLAKE2s(DOMAIN || pubkey)[..15]`). You can derive this address via `--addr`:
+`yip` features self-certifying IPv6 addresses: a node's overlay address is derived directly from its public key (`0xfd || BLAKE3-KDF("yip-v2-overlay-ipv6-addr", pubkey)[..15]`). You can derive this address via `--addr`:
 
 #### On Host A:
 ```sh
 yipd --addr 7df4d68205f03a2cae7e1713444fcda80ff43a29de7e9b0b4b2c159286d9a11a
-# Output: fd6a:9b12:ec41:882b:9912:65aa:1204:88ef
+# Output: fd88:e289:fa2e:4c29:8669:468a:7a3f:93bb
 ```
 
 #### On Host B:
 ```sh
 yipd --addr 9b49ffeb4566b53a0f78cae08920bc9e30a6e0c60f252cfdf4740e74f8c92b21
-# Output: fdb2:44cc:701a:32aa:01aa:89fe:412b:7710
+# Output: fd30:5fd1:5032:4e65:f368:54d7:4a23:c339
 ```
 
 You can choose either standard custom ULA prefixes (such as `fd00:1::1/64`) or these self-certifying key addresses for your overlay. For this tutorial, we will assign `fd00:1::1/64` to Host A and `fd00:1::2/64` to Host B.
@@ -510,7 +510,7 @@ sudo yipctl peers
 ```text
 PEER: 9b49ffeb4566b53a...
   Endpoint:       203.0.113.2:443 (Direct)
-  Handshake:      Completed (authenticated via Noise_IKpsk2)
+  Handshake:      Completed (authenticated via PQNoise_IKpsk2)
   Rekey:          In 114s (epoch 1)
   Tx Packets:     42 (6.2 KiB)
   Rx Packets:     38 (5.8 KiB)
@@ -572,7 +572,7 @@ flowchart TD
     NodeB -- "Boot & Load roots" --> Roots
 
     NodeA <-->|"Authenticated Gossip<br/>(TAI64N Timestamped)"| NodeB
-    NodeA <===>|"Dynamic Encrypted Tunnel<br/>(Noise-IK + RS-FEC)"| NodeB
+    NodeA <===>|"Dynamic Encrypted Tunnel<br/>(PQNoise-IK + RS-FEC)"| NodeB
 ```
 
 ---

diff --git a/docs/02-configuration.md b/docs/02-configuration.md
@@ -636,7 +636,7 @@ Parameters defined within repeatable `[peer]` blocks to establish connections to
 
 > [!IMPORTANT]
 > **Cryptographic Addressing vs. WireGuard `allowed_ips`**:
-> Unlike WireGuard, `yip` does **not** parse or rely on `allowed_ips` prefix filtering for access control. In `yip`, peer overlay addresses in `fd00::/8` are **cryptographically derived** from the peer's public key (via `BLAKE2s-120`). Inbound packets are authenticated against the sender's authenticated cryptographic session key; address spoofing and squatting are mathematically prevented at the crypto layer. Direct route configuration is handled via the operating system network stack (`ip -6 route`). Advanced per-peer overrides (`fec_ratio_override`, custom `keepalive_secs`) are planned extensions; link maintenance and adaptive FEC recovery are handled automatically by `yip`'s transport engine.
+> Unlike WireGuard, `yip` does **not** parse or rely on `allowed_ips` prefix filtering for access control. In `yip`, peer overlay addresses in `fd00::/8` are **cryptographically derived** from the peer's public key (via `BLAKE3-120`). Inbound packets are authenticated against the sender's authenticated cryptographic session key; address spoofing and squatting are mathematically prevented at the crypto layer. Direct route configuration is handled via the operating system network stack (`ip -6 route`). Advanced per-peer overrides (`fec_ratio_override`, custom `keepalive_secs`) are planned extensions; link maintenance and adaptive FEC recovery are handled automatically by `yip`'s transport engine.
 
 ---
 
